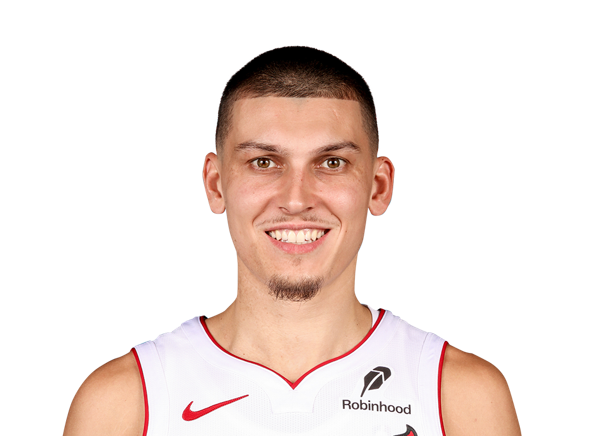
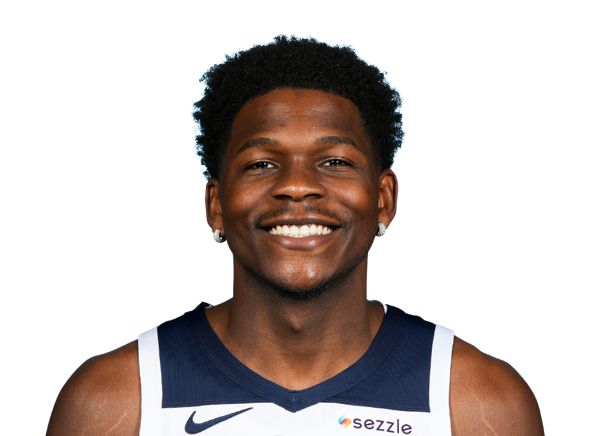
fix Ant Edwards photo, seamless sections, scroll to top
- Replace player_ant.png with correct ESPN ID 4594268 (Ant Edwards)
- Lock body overflow during intro animation so no scroll can happen;
  clear URL hash on load; reset scroll to 0 before and after intro
- Add CSS gradient fade overlays at hero bottom and features top/bottom
  so section transitions blend smoothly instead of cutting hard

diff --git a/public/main.js b/public/main.js
@@ -4,7 +4,12 @@ const EMAILJS_TEMPLATE_ID = "template_xbaufb8";
 
 (function initIntro() {
   history.scrollRestoration = 'manual';
+  if (window.location.hash) history.replaceState(null, '', window.location.pathname + window.location.search);
+  document.documentElement.scrollTop = 0;
+  document.body.scrollTop = 0;
   window.scrollTo(0, 0);
+  document.body.style.overflow = 'hidden';
+  document.documentElement.style.overflow = 'hidden';
   const canvas = document.getElementById("intro-canvas");
   const ctx = canvas.getContext("2d");
   const logoEl = document.getElementById("intro-logo");
@@ -195,6 +200,11 @@ const EMAILJS_TEMPLATE_ID = "template_xbaufb8";
         setTimeout(() => {
           introEl.remove();
           sweep.remove();
+          document.body.style.overflow = '';
+          document.documentElement.style.overflow = '';
+          document.documentElement.scrollTop = 0;
+          document.body.scrollTop = 0;
+          window.scrollTo(0, 0);
           siteEl.style.transition = "none";
           siteEl.style.opacity = "1";
           siteEl.classList.add("entering");

diff --git a/styles.css b/styles.css
@@ -1214,6 +1214,16 @@ a {
     background: transparent;
 }
 
+#hero::after {
+    content: '';
+    position: absolute;
+    bottom: 0; left: 0; right: 0;
+    height: 220px;
+    background: linear-gradient(to bottom, transparent 0%, var(--black) 100%);
+    pointer-events: none;
+    z-index: 6;
+}
+
 #cards-field {
     position: absolute;
     inset: 0;
@@ -1838,7 +1848,28 @@ a {
     /* plain wrapper */
 }
 
+#features::before {
+    content: '';
+    position: absolute;
+    top: 0; left: 0; right: 0;
+    height: 100px;
+    background: linear-gradient(to bottom, var(--black), transparent);
+    pointer-events: none;
+    z-index: 3;
+}
+
+#features::after {
+    content: '';
+    position: absolute;
+    bottom: 0; left: 0; right: 0;
+    height: 140px;
+    background: linear-gradient(to bottom, transparent, var(--black));
+    pointer-events: none;
+    z-index: 3;
+}
+
 .feature-slide {
+    position: relative;
     display: flex;
     align-items: center;
     padding: 3rem 8vw;
